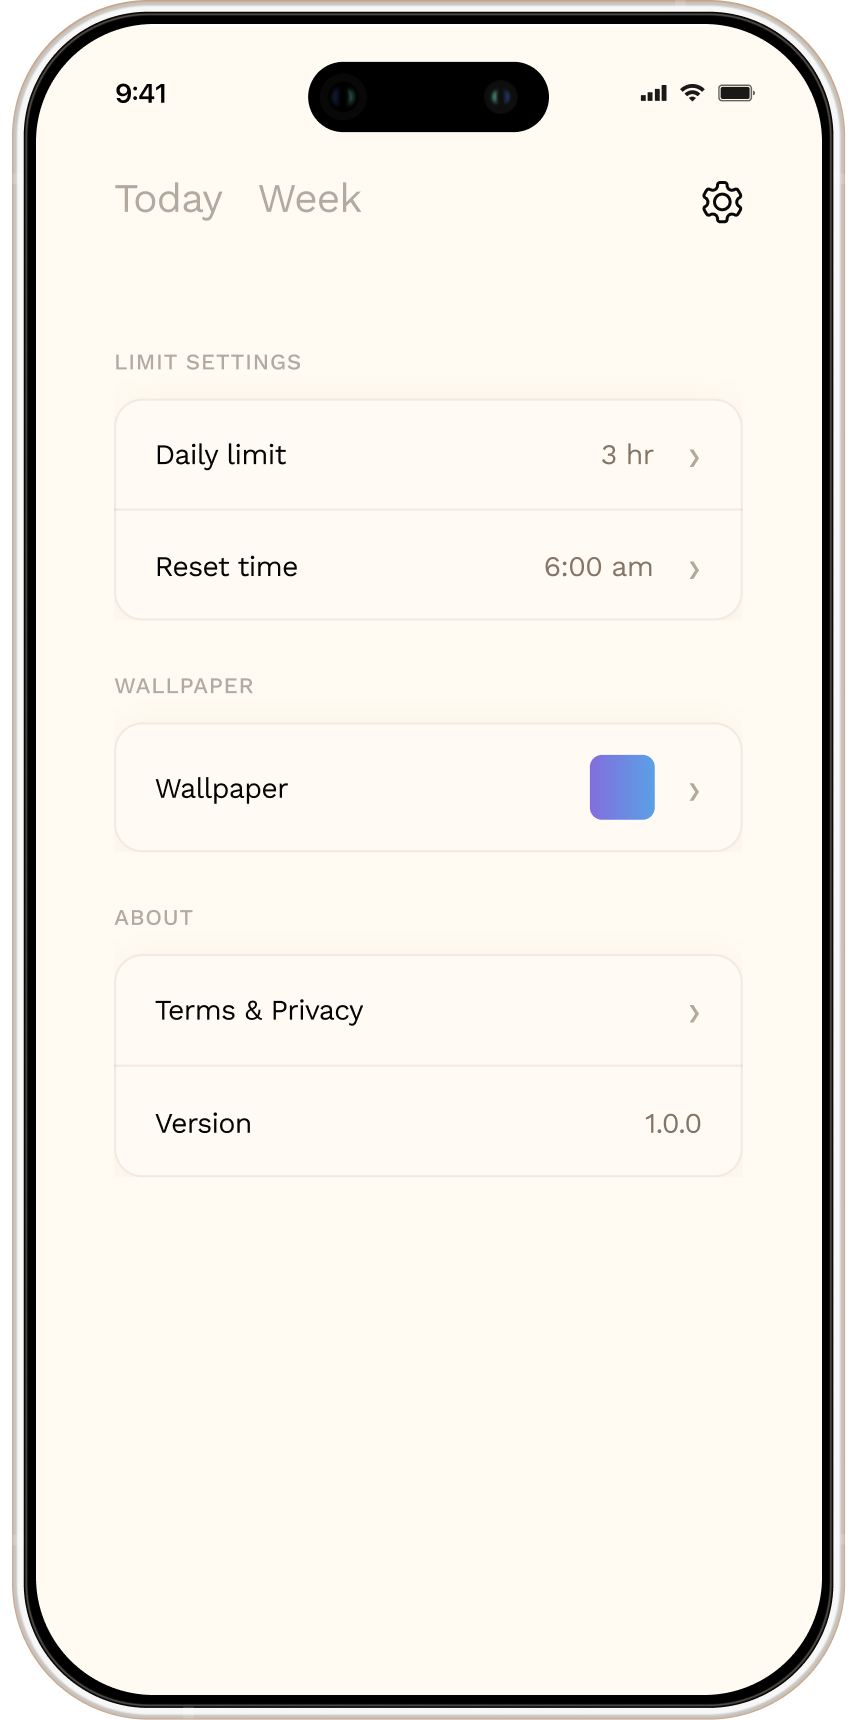
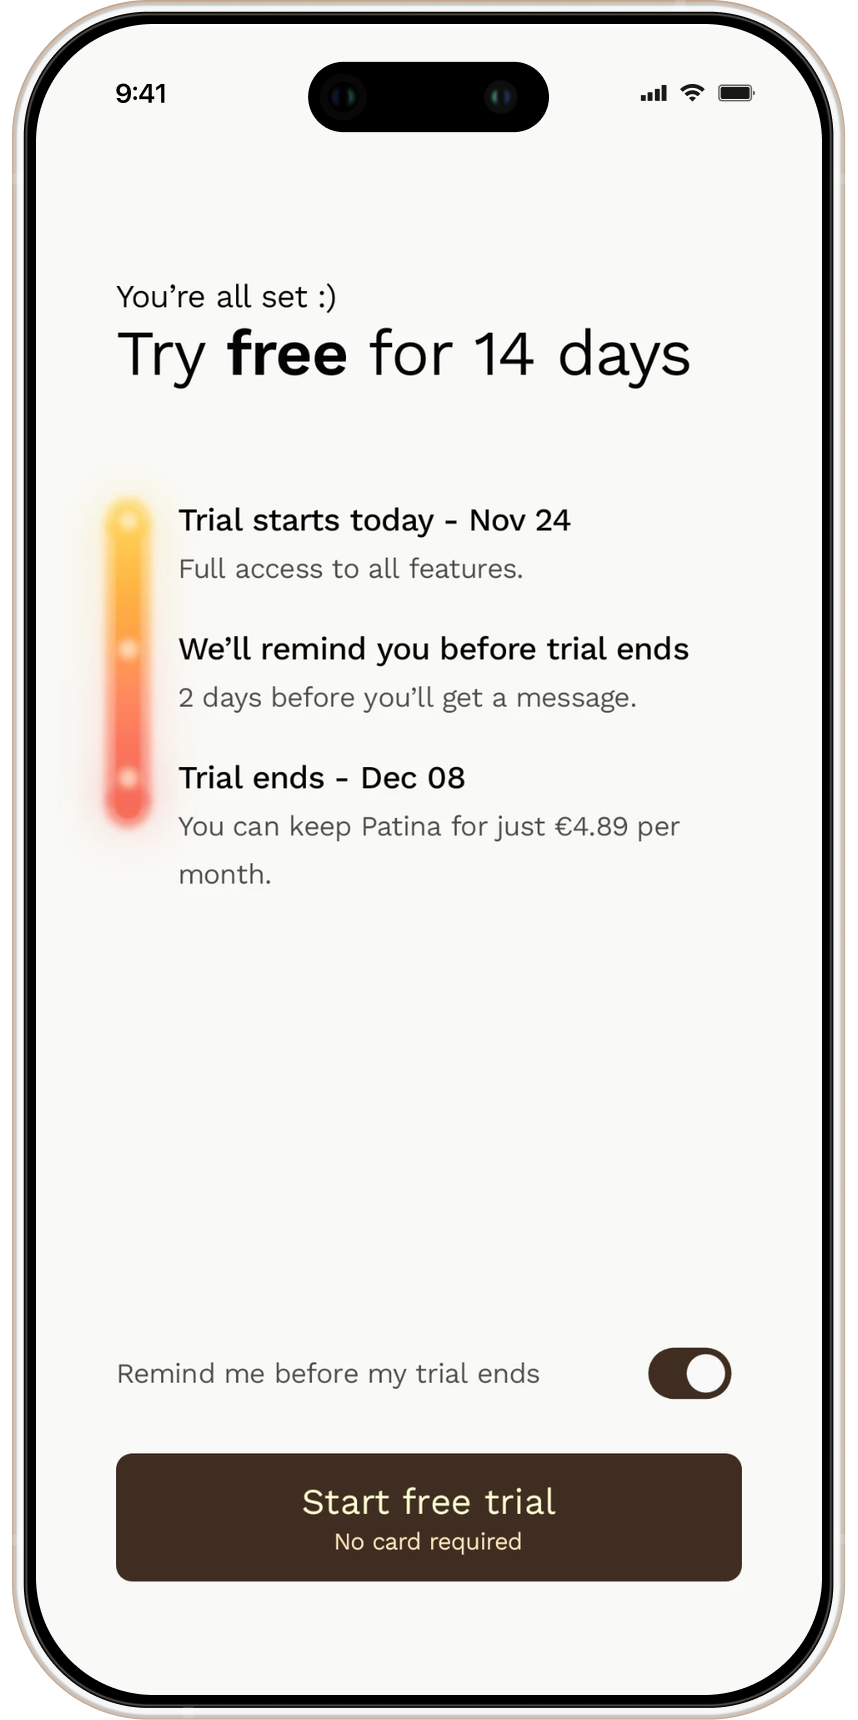
Patina: show the free-trial screen instead of settings
Replace the settings screenshot above the shake video with the new
14-day free trial screen, and update its alt text.

diff --git a/app/patina/page.tsx b/app/patina/page.tsx
@@ -1067,7 +1067,7 @@ export default function PatinaV3Page() {
                 />
                 <PhonePanelCard
                   src="/patina/newPatina2.png"
-                  alt="Patina — settings: daily limit, reset time, wallpaper"
+                  alt="Patina — 14-day free trial, no card required"
                   imgAspect="aspect-[858/1720]"
                 />
                 <div className="w-full aspect-[1920/1400] rounded-[32px] overflow-hidden relative">
